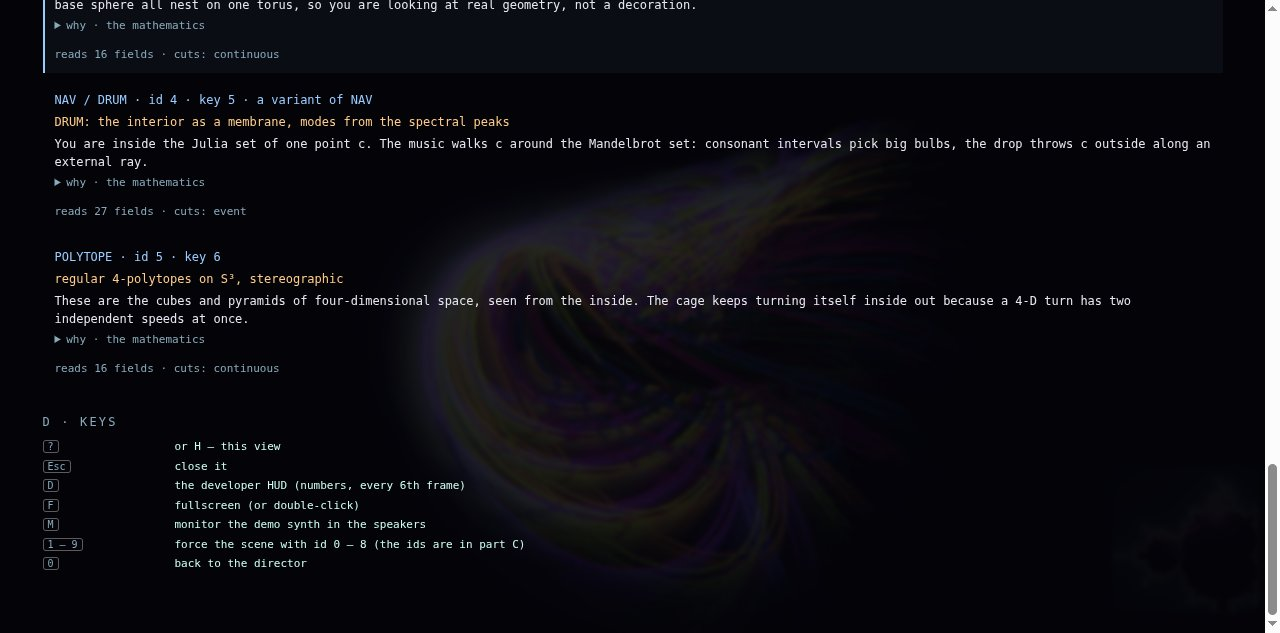
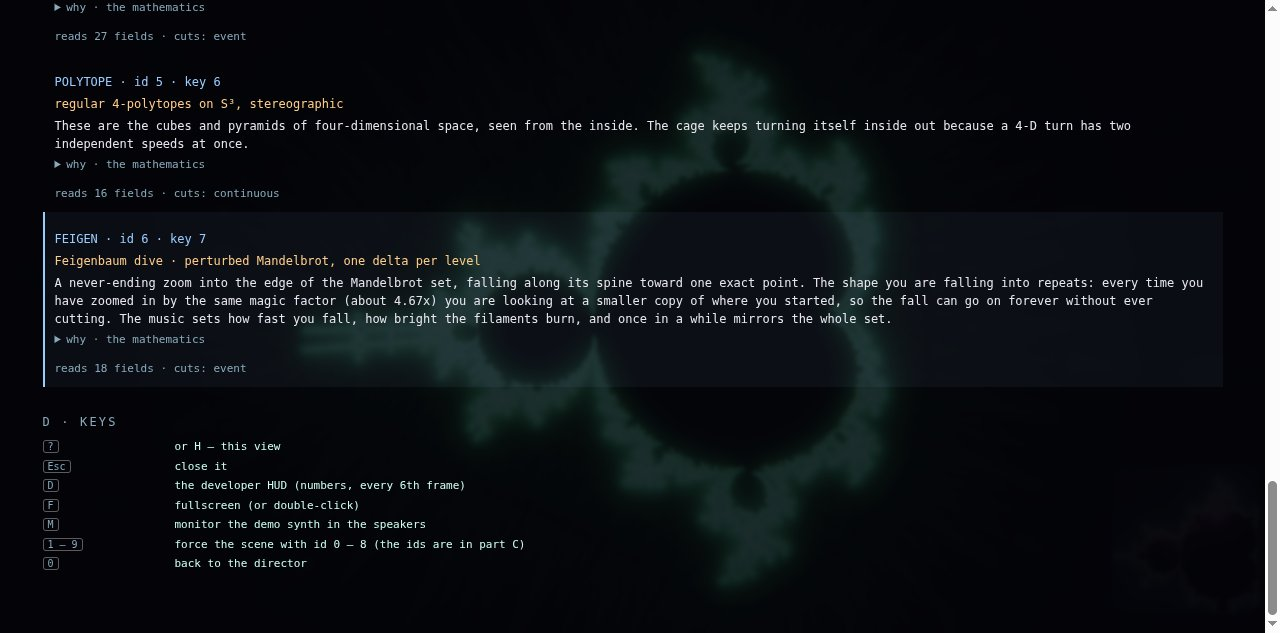
§15 accepted: FEIGEN id 6 (worker) — the perturbed Feigenbaum dive, first hist sampler: CLOCK=1 f360/f840 md5s equal with &histfull=1 (the #7 proof, now an accept.sh line); JULIA dropped on the side-by-side with NAV (DECISIONS §15); mixs md5 re-based director-blind (a6e2b8cd…, same pixels with FEIGE

diff --git a/docs/DECISIONS.md b/docs/DECISIONS.md
@@ -578,3 +578,66 @@ Sources are read-only: `~/Documents/Kraftek/Cardioid/cardioid3.html` (v3, truste
   wrong (synapse's `(y, q)` rotation is `poleOffset`, a rotation of S³ that is not in SU(2); the worker kept `rotSU2`,
   which carries fibres to fibres — the better choice, and invisible on screen); DUST has no `presence` read, so the
   rings scale with `alive` like the grains. Temptation not taken: `core/lines.js` (bisected the cost from outside).
+
+## §15 FEIGEN (id 6) and the JULIA decision (v0.2, 2026-09-23, worker from the brief, `docs/workers/feigen.md`)
+
+- **The JULIA question — outcome (c), dropped, on the side-by-side** (`tools/accept/v0.2/julia-vs-nav.jpg`: NAV at t6
+  on the fake timeline, then synapse's scene 5 driven headless from `synapse2.html#scene=5&demo=house` at 10 s and
+  30 s). Synapse's JULIA is `c = λ/2 − λ²/4` with `λ = ρe^{iθ}` inside the main cardioid: tension drives `ρ → 1` toward
+  the parabolic point `θ = 2πp/q` (`PARAB`), the hush holds `ρ = 1`, the drop pushes `ρ > 1` and the set shatters.
+  The pictures are the same family to a viewer: a filled Julia set with Green's-function bands (log₂G level sets as
+  rays/annuli) outside and DE filaments on the boundary — NAV's exterior at t6 *is* that picture, and its interior
+  chart is the multiplier `λ = ρe^{iφ}` of *every* bulb (main cardioid included) with `rho → min(1 − h, 0.985)`,
+  `N.par = sstep(0.8, 0.98, ρ)` (nav.js 157–176) and drops that exit through parabolic roots onto landing rays —
+  synapse's whole story, generalised. What synapse's colouring adds is the "critical slowing" interior smoulder
+  (`slow = clamp(lastStep·40, 0, 1)` brightening the filled set as ρ → 1) — a colouring, not a scene. The director
+  argument closes it: synapse used JULIA as *the* build scene ("a build deserves the scene that can implode", line
+  1498), and here the home scene owns builds (§4: a build parks home), so a peer JULIA's one narrative could never
+  play, and as a NAV variant it would need the chart walk restricted to the cardioid and the parabolic targets — NAV's
+  chart code, which this session does not touch. Left as a polish note: NAV could take the smoulder term on `N.par`.
+  Ids 7–8 stay free.
+- **FEIGEN, what came back** (`scenes/feigen/index.js` 203 + `shaders.js` 96 lines; registration two lines in `main.js`,
+  ids table `6 feigen · 7–8 free`). Synapse's scene 6 as written in its header: the real-axis dive toward
+  `c∞ = −1.401155189…`, one Feigenbaum factor `δ = 4.6692…` per 32-beat phrase (`feigL += dt/(32·period)·(0.25 +
+  1.5·lvl)·(1 − 0.8·tension)·alive`, `period = 60/bpm`, wrapped at `feigMax() + 1` with `feigMax = [3.4, 4, 4.6, 5][tier]`,
+  the kick-hidden wrap, `+1` on a drop — a jump by exactly one δ is the self-similarity, so it is nearly invisible),
+  perturbation iteration `e' = 2·Z·e + e² + dc` against the reference orbit of `c∞` computed in JS doubles and uploaded
+  once as an R32F 512×1 texture with raw `gl` in `init` (`ctx.tex` binds any `{t}`), the tricorn flip `e' = conj(…) +
+  dc` **on the section seed** (`floor(seed.a·1000) % 2` at `sectionEvt`; synapse flipped on drops, which here hard-cut
+  to home and would never be seen), DE filaments, Green bands, and `hist()` on `ctx.engineTex.hist` with `uHistRow =
+  (row − 0.5)/128` — the first scene that samples the spectrogram ring. `cuts: 'event'` (the flip is the one declared
+  jump); `score = build ? 0 : 0.2 + 0.4·regularity + 0.25·clarity + 0.15·calm`; `look = [feigL, tricorn]`; hooks
+  `&feig=<L>` (also marks the scene as arrived, or the arrival clamp `min(feigL, 1.2)` ate it — the worker's one
+  deviation) and `&tricorn=1`; `post {fb .55, bloom .3, kaleido 0}`; `feats` 18 exactly, `help.feats` 18/18.
+  `accept/v0.2/s6-t6.jpg` / `s6-t14.jpg`: the whole set at L 0.37, one δ deeper and magenta with the Green bands
+  after the drop (L 1.56).
+- **The #7 proof.** `CLOCK=1` frames 360 and 840: `7c976ae1…` / `9d859b1f…` across two runs (determinism) **and with
+  `&histfull=1`** (the v0.1 whole-texture upload) — equal. The row-delta upload feeds `histM` the same texture; `accept.sh`
+  now takes that pair for every scene whose folder mentions `engineTex.hist`.
+- **The md5 story (registration).** With id 6 registered the director's first pick on the fake timeline became NAV →
+  FEIGEN instead of NAV → TORUS, so the §11 frame-290 shot changed md5 (`585e73b5…` for `[0, 6, 0.499]`) with no
+  transition pixel changed. Re-based, as the session prompt required, on the director-blind recipe (HARNESS
+  "Transition": `&scene=0`, at frame 120 `SC.forced = −1; goScene(3, false)`, shoot at 178, `m = 0.4994`):
+  **`a6e2b8cdcc47316cebb04f5529a26b06`**, identical on two runs on HEAD and on a third run with `main.js` from the
+  commit before FEIGEN's registration (the same pixels from the same code), `git diff 8646186 HEAD` empty on
+  `transitions/mixs.js` and `core/scenes.js`. `accept.sh` "== transition" and the morph line use the forced pair now;
+  the rule in HARNESS: a reference md5 must never depend on a director pick. `parity.js fake` 0 diff / 72 (director-blind
+  by design).
+- **Director on the fake timeline with six scenes** (`director-fake-after15.txt` vs `-after`, `director-stats.js`): the
+  same 9 soft switches, all 9 on the bar line (held max 3.80, mean 1.64 beats, identify 7 / return 2), the same 11
+  restores at the same seconds; the sequence `0 3 4 0 4 3 4 …` became `0 6 4 0 4 6 4 …` — FEIGEN's score wins TORUS's
+  slot in the alt-1 section (0.2 + 0.4·regularity + 0.25·clarity + 0.15·calm against 0.25 + 0.45·clarity +
+  0.3·regularity, plus the seed noise) and comes back on every return of that section, as look memory should.
+- **Cost — the open item.** `CARD.bench(6, 300)` at full resolution, tier 3: L 1.21 / `uIter` 142 → **6.85 ms**, L 2.02
+  / 240 → 10.9, L 3.02 / 428 → 17.7, L 3.59 / 500 → 21.1 (NAV 2.3–2.7 in the same session); ≈ 1.7 ms + 0.036 ms per
+  iteration. The brief's "in NAV's range" is met only while shallow; the worker refused to retune synapse's `uIter =
+  min(500, (70 + 30·L²)·[0.6, 0.8, 1, 1.25][tier])` behind the orchestrator's back — rightly: the DE and the bands come
+  out of the escape count, and `Q` already trades both the multiplier and `feigMax` down (house settled at q 0.5,
+  tier 1, 6.2 ms with no artefact). Left open for a polish phase: scale `uIter` by `ctx.Q.iter/264` instead of the
+  tier row, or render the dive at `0.8·scale` — a §1.6 question, not a scene one.
+- **Friction (9) → docs:** hooks fire before `init` and clamp-on-arrival (§1.4, with §14's); `SC.hist` and `bench`'s
+  default `n` (HARNESS; brief-common's `bench(id, 60)` → 300); the brief's `928–962` range stopped one line short of
+  `FS_FEIGEN`'s end (the same off-by-one as POLYTOPE's brief — the worker took `o = vec4(col·uAlive, 1)` from MANDALA);
+  "`tricorn` also at `init`" is not computable without `MS` (0 until the first `sectionEvt`); `Math.floor` for `uIter`;
+  `look.set` guarded with `Array.isArray`. Temptations not taken: `core/` for hook timing and for whether `bench` is
+  full-res (both answered by experiment and HARNESS's own wording).

diff --git a/NEXT-SESSION-PROMPT.md b/NEXT-SESSION-PROMPT.md
@@ -8,7 +8,7 @@ Parity with `cardioid3.html` on `#test` is 0 diff on every field; the v3 NAV sce
 
 **Read first:** `docs/CONTRACTS.md` (the one required read for scene/effect/stage authors), `docs/HARNESS.md`,
 `docs/DECISIONS.md` (every deviation and why, including the open items below), `docs/workers/*.md` (what workers
-tripped on). Memory note: `~/.claude/projects/-home-toma-Documents-TomaCoS/memory/project_eigenwobble.md`.
+tripped on). Memory note: `~/.claude/projects/-home-toma-Documents-Kraftek-Eigenwobble/memory/project_eigenwobble.md`.
 
 **Working style that worked:** the orchestrator owns core/engine/contracts/parity; every scene and effect was written
 by a worker in an isolated git worktree (own `PORT=`), from the contract docs alone, accepted on screenshots, and its
@@ -41,19 +41,28 @@ parity real · monitor 0 spikes · 5 scenes · transition md5 · real start path
   from the new `help.feats` slot · formula · live value), the director's state, the cast, the keys. Zero DOM work while
   hidden (`CARD.HELP.ticks`), the §11 md5 and `parity.js fake` untouched, coverage by eval (`CARD.HELP.rows()`:
   107/107 fields, top table = `feats` on all 6 ids). NAV's `feats` trimmed to what it reads (11 v3-era leftovers).
-Still open below: #3 julia/feigen, #7, plus DUST's Hopf-fibre overlay (now unblocked by `ctx.lines`).
+- **#7 row-only `hist` upload + `ctx.budget`** → `core/gl.js`, `core/quality.js` (DECISIONS §13): the hop-delta rows
+  only (2.0 MB/s → 73 KB/s on the real synth), `&histfull=1` keeps the whole-texture path for proofs, `BUDGET {points,
+  segs}` + `ctx.budget(kind)`; `tools/hist-check.js`, `tools/scene-md5.sh`.
+- **DUST's Hopf-fibre overlay** → `scenes/dust/fibre.js` (worker, DECISIONS §14): path A, 560–3168 segments by tier,
+  `hooks.fibres`, A/B md5 equal to the old DUST with it off; the line renderer costs 0.4 µs/segment (§1.12).
+- **#3 FEIGEN** → `scenes/feigen/` id 6 (worker, DECISIONS §15): the perturbed Feigenbaum dive, the first `hist`
+  sampler (its `&histfull=1` md5 equality is the #7 proof). **JULIA dropped** on the side-by-side with NAV
+  (`accept/v0.2/julia-vs-nav.jpg`, DECISIONS §15). The §11 md5 re-based on the director-blind recipe
+  (`a6e2b8cd…`) because registering a scene moved the director's first pick.
+Everything in the v0.2 list is done. Open polish: FEIGEN's cost at depth (6.9–21 ms at tier 3; scale `uIter` by
+`Q.iter` or render at `0.8·scale`, DECISIONS §15), DUST's tier-3 fibre count (3168 segments, +1.4 ms), POLYTOPE's pole
+streaks (§8), NAV's interior smoulder on `N.par` (the one thing synapse's JULIA had, §15).
 
 ## Candidates for v0.2 (pick by taste; each is one worker brief)
 
-1. **Line renderer in core** (`ctx.lines`: instanced quads from a Float32Array of segments, depth-tested). Unblocks
-   TORUS fibres as strokes instead of points and DUST's Hopf-fibre overlay (dropped in v0.1 for synapse's broken depth).
+1. ~~Line renderer in core~~ — done (§7); TORUS as strokes (§7), DUST's Hopf-fibre overlay (§14).
 2. ~~Synapse's morph transition~~ — done (DECISIONS §11): `assets/transitions/`, morph is the default.
-3. **Synapse's julia / feigen / polytope scenes** as workers (`synapse2.html` scenes 1/3/5; the polytope needs the
-   line renderer). Each is a folder + two lines in `main.js`.
+3. ~~Synapse's julia / feigen / polytope scenes~~ — polytope done (§8), feigen done (§15), julia dropped (§15).
 4. ~~The v4 help idea rebuilt on `feats.js`~~ — done (DECISIONS §12): `core/help.js`, the `help.feats` slot.
 5. ~~Tempo refinement for v3's canonical `bpm`~~ — done (DECISIONS §9).
 6. ~~Key look memory on `sectionAlt` + beat-quantised director actions~~ — done (DECISIONS §10).
-7. **Row-only `hist` upload** (32 KB/hop today) and `Q`-aware particle budgets shared across POINTS scenes.
+7. ~~Row-only `hist` upload and `Q`-aware particle budgets~~ — done (§13).
 
 ## Non-negotiables (unchanged)
 Zero deps · native modules · every visual parameter traces to `MS` · core closed except in a phase that targets it ·

diff --git a/docs/HARNESS.md b/docs/HARNESS.md
@@ -55,17 +55,20 @@ mix 360 s, fake 72 s (`CLOCK=1`, deterministic); two styles at a time, never mor
 ## Transition (change to the crossfade pass, or a new `assets/transitions/*.js`)
 
 `&trans=<name>` under `#test` picks a registered transition for the run (`CARD.TRANSITIONS` lists them; the default
-is set in `assets/main.js`). The reference frame is the fake timeline's first fade — NAV → TORUS, `SWITCH@3.88`
-(frame 233), 116 frames long — at frame 290, `m = 0.499`:
+is set in `assets/main.js`). The reference frame is **director-blind** (since §15): force scene 0, release the director
+at frame 120 and start the fade to 3 by hand, shoot 58 frames later (`58/60/1.935 s = 0.499`):
 
 ```
-CLOCK=1 GPU=1 OUT=tools/accept/v0.2 node tools/cdp.js 'test&trans=mixs' '[{"until":"window.CARD"},{"until":"window.__FRAME>=290"},{"shot":"trans-mixs-f290"},{"eval":"JSON.stringify([CARD.SC.cur,CARD.SC.next,CARD.SC.m])"}]'
-# EVAL … => "[0,3,0.4994…]"   md5sum tools/accept/v0.2/trans-mixs-f290.jpg → 4ac523e9770e7d0625d46ed1f3e44769 (GPU=1, 1280×720)
+CLOCK=1 GPU=1 OUT=tools/accept/v0.2 node tools/cdp.js 'test&scene=0&trans=mixs' '[{"until":"window.CARD"},{"until":"window.__FRAME>=120"},{"eval":"CARD.SC.forced=-1;CARD.goScene(3,false);CARD.SC.next"},{"until":"window.__FRAME>=178"},{"shot":"trans-mixs-0-3-f178"},{"eval":"JSON.stringify([CARD.SC.cur,CARD.SC.next,CARD.SC.m])"}]'
+# EVAL … => "[0,3,0.4994…]"   md5sum tools/accept/v0.2/trans-mixs-0-3-f178.jpg → a6e2b8cdcc47316cebb04f5529a26b06 (GPU=1, 1280×720)
 ```
-`mixs` is v3's crossfade and must stay byte-identical to that md5 (the v0.1 core pass; `trans-before-f290.jpg` is
-the shot taken before the slot existed). A different md5 after a core change is a pixel difference to explain, never
-a tolerance. `accept.sh` checks it on every sweep. Any other pair at `m ≈ 0.5`: force A, release the director at
-frame 120 and start the fade to B, shoot 58 frames later (`58/60/1.935 s = 0.499`):
+`mixs` is v3's crossfade and must stay byte-identical to that md5. A different md5 after a core change is a pixel
+difference to explain, never a tolerance. `accept.sh` checks it on every sweep. Until §15 the reference was the fake
+timeline's own first fade at frame 290 (`4ac523e9770e7d0625d46ed1f3e44769`, `trans-before-f290.jpg`); registering
+FEIGEN changed what the director picked there (NAV → FEIGEN instead of NAV → TORUS) without any transition pixel
+changing, so the check moved to the forced pair — the same md5 with FEIGEN registered and not (DECISIONS §15).
+**Registering a scene can move a director-dependent md5; the check must never depend on a pick.** The recipe for any
+other pair at `m ≈ 0.5` is the same:
 
 ```
 CLOCK=1 GPU=1 OUT=tools/work node tools/cdp.js 'test&scene=1&trans=morph' '[{"until":"window.CARD"},{"until":"window.__FRAME>=120"},{"eval":"CARD.SC.forced=-1;CARD.goScene(3,false);CARD.SC.next"},{"until":"window.__FRAME>=178"},{"shot":"trans-morph-1-3-f178"},{"eval":"JSON.stringify([CARD.SC.cur,CARD.SC.next,CARD.SC.m])"}]'

diff --git a/docs/workers/brief-common.md b/docs/workers/brief-common.md
@@ -46,8 +46,8 @@ Lifted fragment sources start with their own `out vec4 o;` — drop it (HEAD dec
 2. `PORT=<yours> GPU=1 node tools/cdp.js 'test&scene=<id>' '[{"wait":6000},{"eval":"JSON.stringify({errs:CARD.ERRS,bad:CARD.nonFinite(),scene:CARD.SC.logical})"},{"shot":"work/<name>-t6"},{"wait":8200},{"shot":"work/<name>-t14"}]'`
    → ERRS `[]`, nonFinite `[]`; Read both shots: the scene must be a distinct, non-black image at t6 and visibly react
    to the drop at 13 s in the t14 shot (brighter / burst / reformed — say what you see).
-3. `PORT=<yours> GPU=1 node tools/cdp.js 'test&fake=0&demo=house&scene=<id>' '[{"wait":10000},{"shot":"work/<name>-h10"},{"wait":20000},{"shot":"work/<name>-h30"},{"wait":20000},{"shot":"work/<name>-h50"},{"eval":"JSON.stringify({errs:CARD.ERRS,bad:CARD.nonFinite(),q:CARD.Q.q,bench:CARD.bench(<id>,60)})"}]'`
-   → three different-looking frames across the house track (groove → breakdown → build); report `bench` (ms).
+3. `PORT=<yours> GPU=1 node tools/cdp.js 'test&fake=0&demo=house&scene=<id>' '[{"wait":10000},{"shot":"work/<name>-h10"},{"wait":20000},{"shot":"work/<name>-h30"},{"wait":20000},{"shot":"work/<name>-h50"},{"eval":"JSON.stringify({errs:CARD.ERRS,bad:CARD.nonFinite(),q:CARD.Q.q,bench:CARD.bench(<id>,300)})"}]'`
+   → three different-looking frames across the house track (groove → breakdown → build); report `bench` (ms; n ≥ 300, HARNESS).
 4. The scene object has: `name id tag feats cuts score init update draw post help` and the `feats` list is exactly the
    MS fields you read (nothing more, nothing missing).
 
